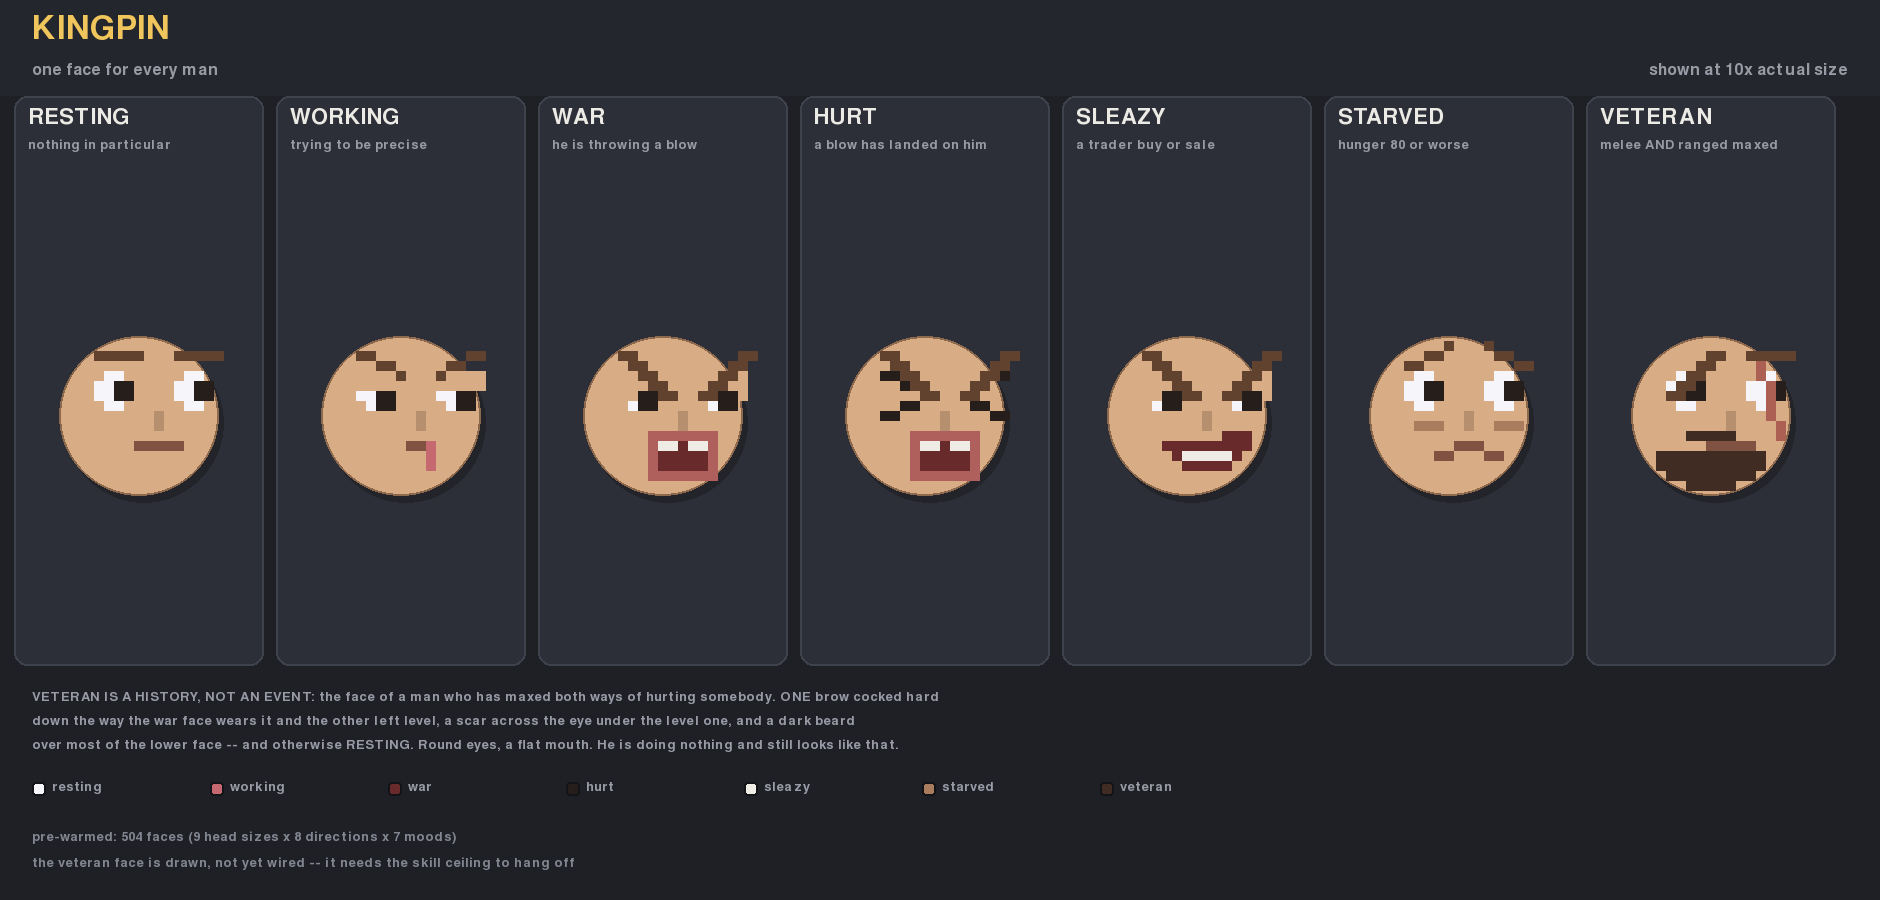
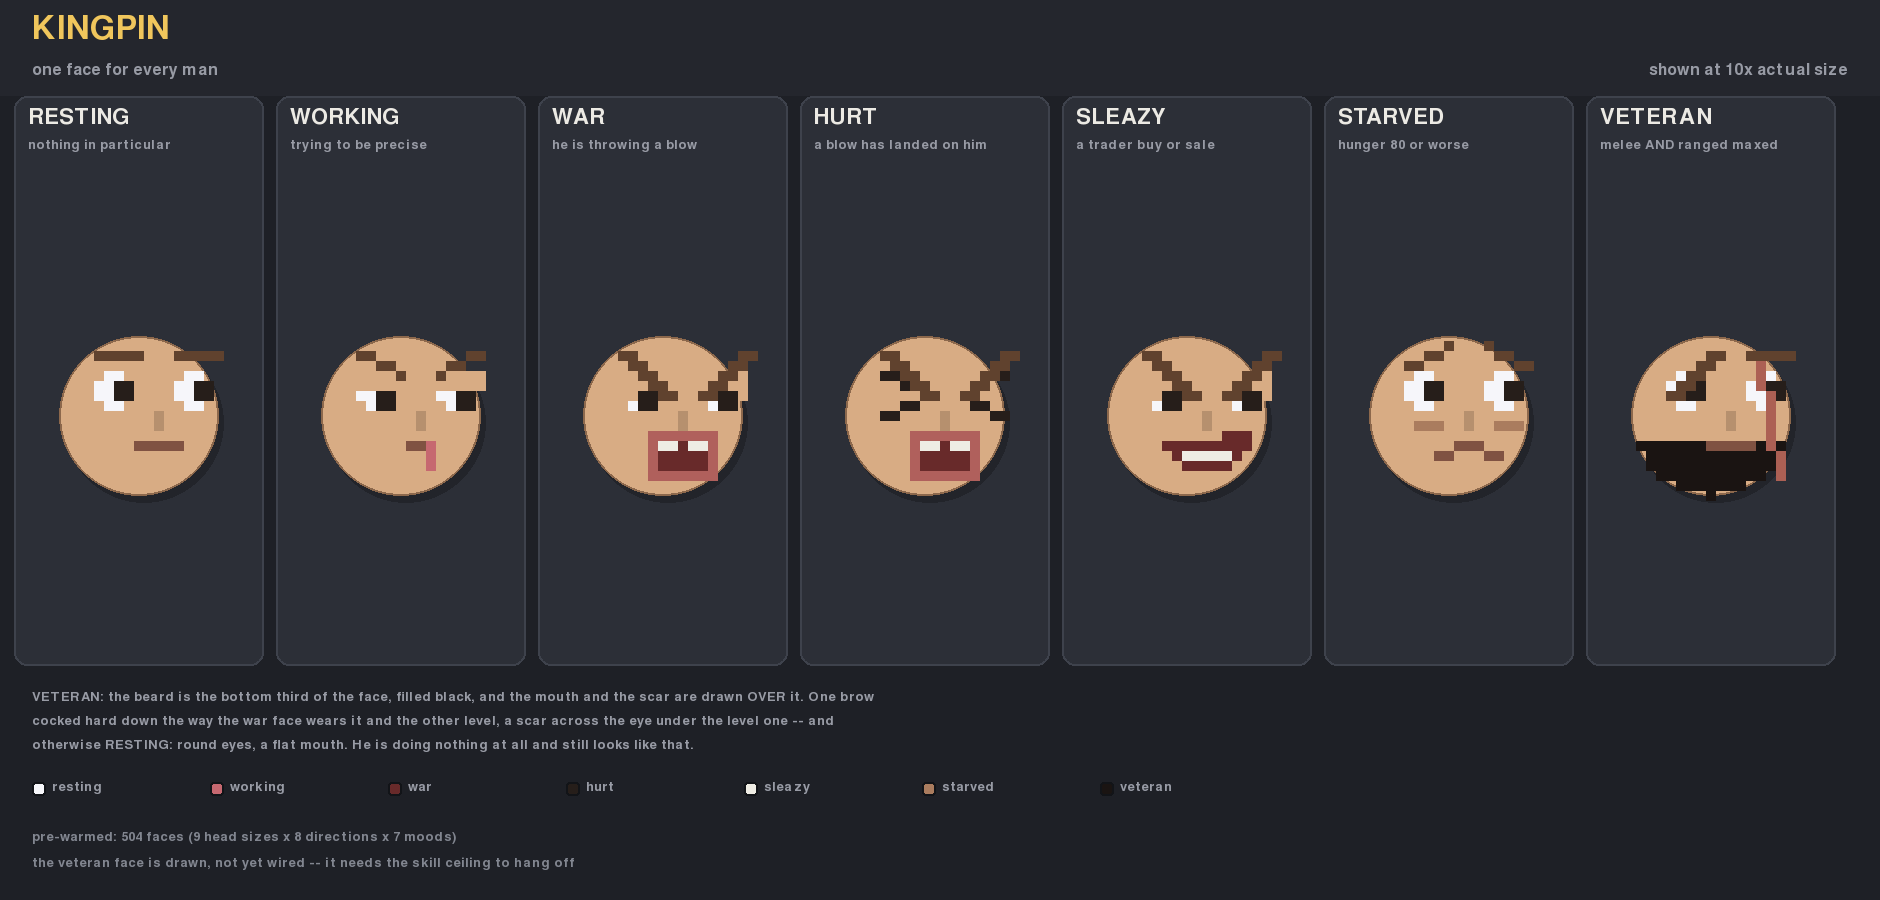
face: the veteran beard is the bottom third of the face, filled black
I overbuilt it. It is not a jaw-following crescent with a moustache and a
gap for the mouth -- it is the BOTTOM THIRD OF THE FACE, FILLED, and then the
face is drawn OVER it: the mouth, the scar, the eye, all of them on top.

    ...........--..-----...
    ..........--....X......
    ........O--.....XO.....
    .......O--@....OX@@....
    .......--@@....OOX@....
    ........OO......OX.....
    .............|...X.....
    .............|...X.....
    .................X.....
    ....BBBBBBBuuuuuBXB....
    .....BBBBBBBBBBBBBX....
    .....BBBBBBBBBBBBBX....
    ......BBBBBBBBBBB.X....
    ........BBBBBBB........
    ...........B...........

  B = the beard, X = the scar, u = the mouth over the beard

The beard is clipped to the head's own circle, so it sits ON the face rather
than hanging off the sides of it, and the black is (26,20,18).

AND THE SCAR RUNS ONTO THE BEARD. It used to stop at the cheek, a pixel above
it -- and when I first extended it, it went the other way and ran off the
chin entirely. It ends inside the beard now.

veteran_face.png is the face on its own, at 26x.

Changed region(s): [[0.0309, 0.7467, 0.4936, 0.84], [0.8638, 0.4667, 0.9564, 0.56], [0.9255, 0.4044, 0.9564, 0.4356]]

diff --git a/face.py b/face.py
@@ -33,7 +33,7 @@ MAW = (104, 42, 42)         # an open, shouting mouth -- the war face
 LIP = (176, 96, 92)         # one pixel of lip, all the way round it
 SOCKET = (170, 124, 94)     # the hollow a starving man's eye sits down in
 SCAR = (172, 96, 84)        # a line of it across the face
-BEARD = (64, 44, 34)        # dark, and most of the lower face
+BEARD = (26, 20, 18)        # the bottom third of the face, black
 TOOTH = (238, 236, 228)     # two of them, at the top of it
 LID = None                  # filled with the skin at draw time
 
@@ -121,14 +121,17 @@ def _render(screen, hx: float, hy: float, r: int, fx: float, fy: float,
     sly = (mood == "sly")
 
     if mood == "veteran":
-        # THE OLD SOLDIER. Not an event and not a state but a HISTORY: the face
-        # of a man who has maxed every way there is of hurting somebody. Three
-        # things and nothing else -- ONE eyebrow cocked hard down the way the
-        # war face wears it and the other left level, a scar across the eye
-        # under the level one, and a dark beard over most of the lower face.
-        #
-        # He is otherwise RESTING. Round eyes, a flat mouth. The whole point is
-        # that he is not doing anything at all and still looks like that.
+        # THE BEARD IS THE BOTTOM THIRD OF THE FACE, FILLED. That is all it is.
+        # Drawn FIRST, because everything else goes OVER it -- the mouth, the
+        # scar, the eye. It is clipped to the head's own circle so it sits on
+        # the face and not off the sides of it.
+        hc, vc = int(round(hx)), int(round(hy))
+        for dy in range(3, r + 1):
+            y = vc + dy
+            hw = int(math.sqrt(max(0.0, r * r - dy * dy)))
+            pygame.draw.line(screen, BEARD, (hc - hw, y), (hc + hw, y), 1)
+
+        # THEN THE FACE, ON TOP OF IT.
         for sgn in (-1, 1):
             cx = ix + sgn * sep
             pygame.draw.circle(screen, WHITE, (cx, iy), wr)
@@ -137,7 +140,7 @@ def _render(screen, hx: float, hy: float, r: int, fx: float, fy: float,
                                 iy + int(round(fy * wr * 0.45))), pr)
 
         # ONE BROW DOWN AND ONE LEVEL. -1 is the war brow, taken straight from
-        # the war face so the two are the same mark; +1 is the resting one.
+        # the war face so the two are literally the same mark on both faces.
         for sgn in (-1, 1):
             cx = ix + sgn * sep
             if sgn < 0:
@@ -156,30 +159,14 @@ def _render(screen, hx: float, hy: float, r: int, fx: float, fy: float,
             pygame.draw.line(screen, NOSE, (ix, iy + wr),
                              (ix, int(round(hy + r * NOSE_DOWN))), 1)
 
-        # THE BEARD, AND IT FOLLOWS THE JAW. Rows down from the lip line, each
-        # one as wide as the HEAD still is at that depth -- computed from the
-        # circle rather than guessed, so it sits on the face instead of
-        # hanging off the sides of it.
-        hc, vc = int(round(hx)), int(round(hy))
+        # THE MOUTH, AND THEN THE SCAR, BOTH OVER THE BEARD.
         m_y = int(round(hy + r * MOUTH_DOWN))
-        for dy in range(4, r + 1):
-            y = vc + dy
-            hw = int(math.sqrt(max(0.0, r * r - dy * dy))) - 1
-            if hw < 1:
-                continue
-            pygame.draw.line(screen, BEARD, (hc - hw, y), (hc + hw, y), 1)
-        # ...and a moustache over the lip, so the mouth has something to sit in
-        pygame.draw.line(screen, BEARD, (hc - max(2, r // 3), m_y - 1),
-                         (hc + max(2, r // 3), m_y - 1), 1)
-        # THE MOUTH, ON TOP OF THE BEARD, or it would vanish into it.
         hw = max(1, int(round(r * 0.26)))
         pygame.draw.line(screen, MOUTH, (ix - hw, m_y), (ix + hw, m_y),
                          max(1, r // 8))
-        # AND THE SCAR, ACROSS THE EYE UNDER THE LEVEL BROW -- last, so it
-        # crosses the white and the pupil rather than being hidden by them.
         cx = ix + sep
         pygame.draw.line(screen, SCAR, (cx - max(1, r // 6), iy - wr - 1),
-                         (cx + max(1, r // 6), iy + wr + 2), 1)
+                         (cx + max(1, r // 6), vc + r - 2), 1)
         return
 
     if mood == "starved":
